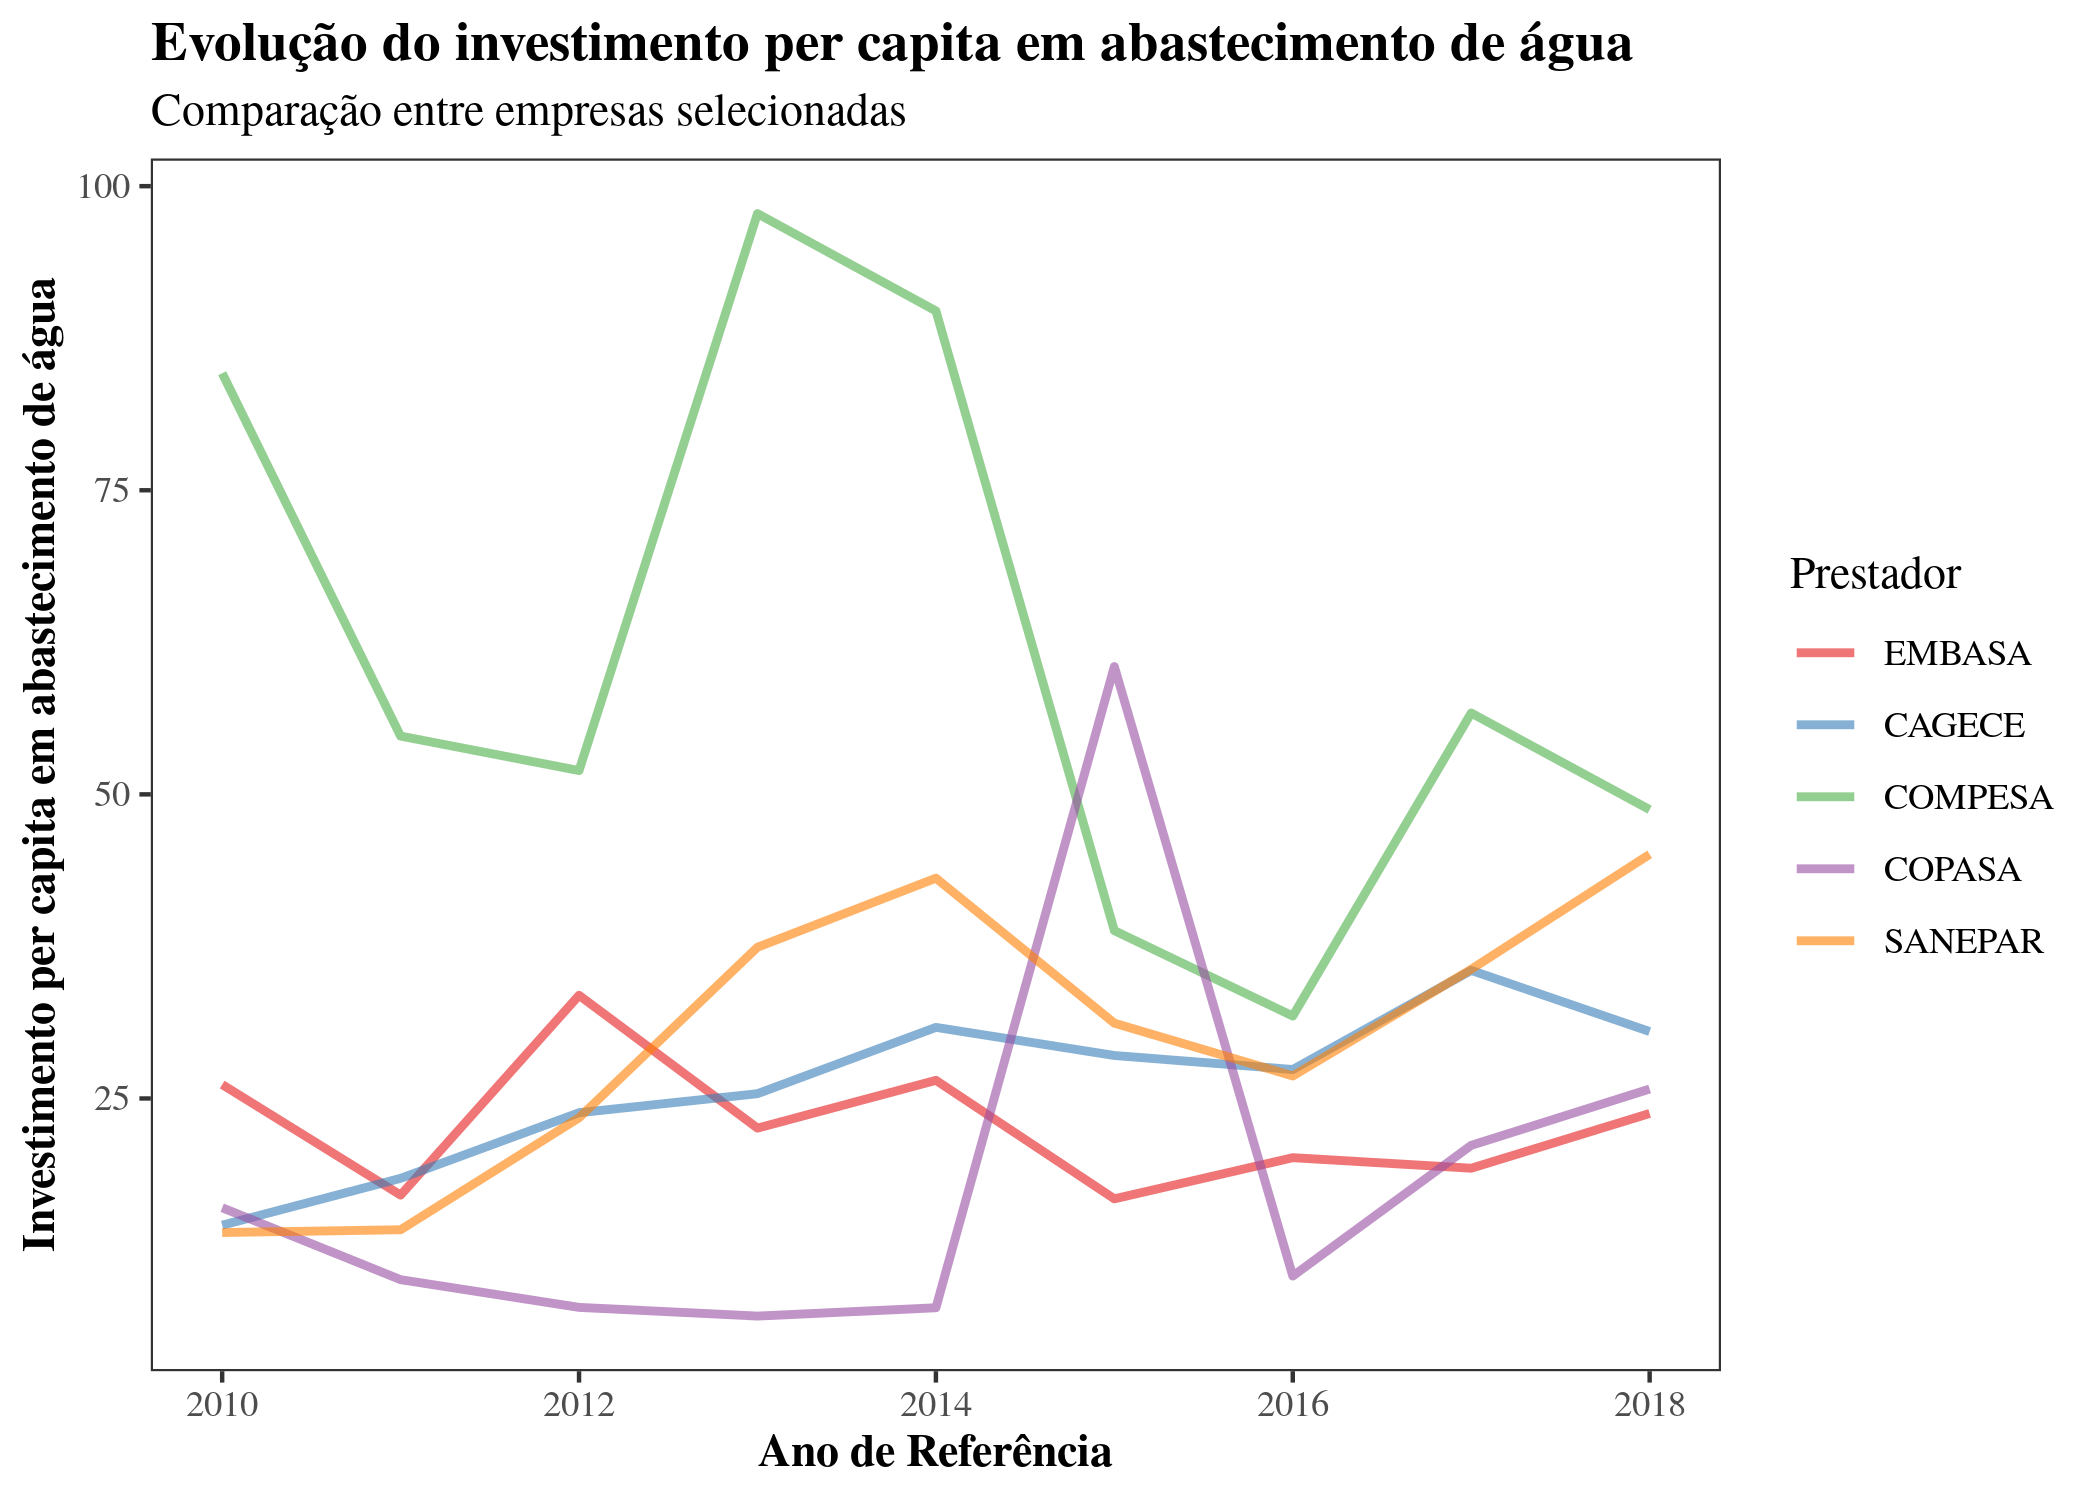
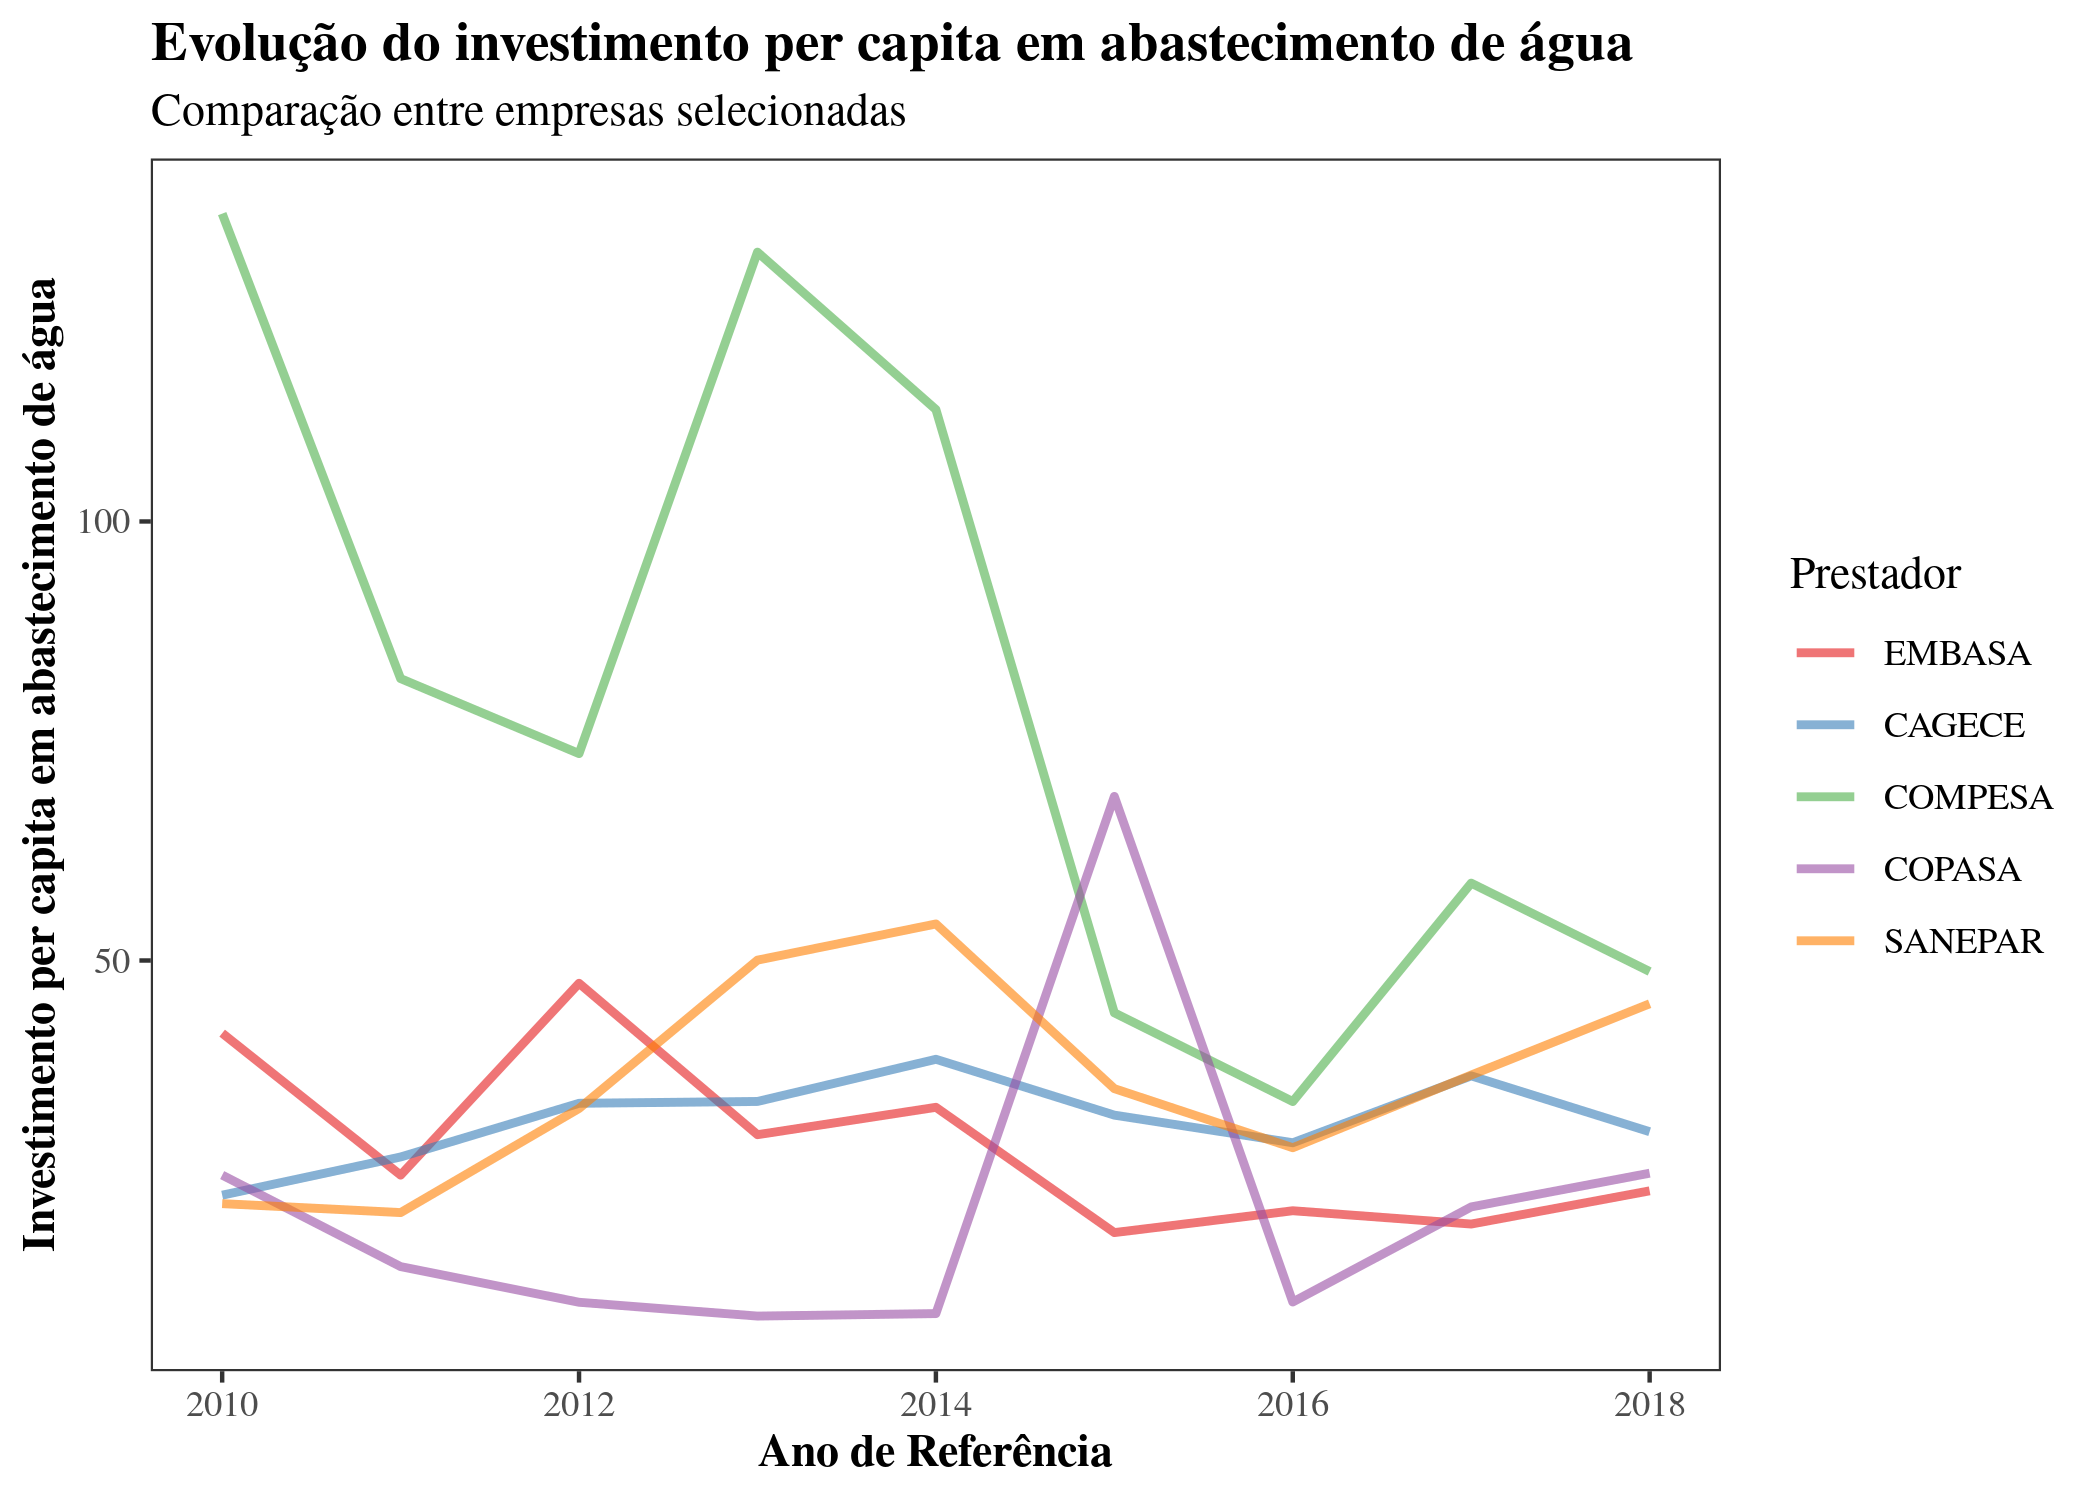
Deflating investment series

diff --git a/README.md b/README.md
@@ -1,2 +1,2 @@
 # saneamento-bahia
-Análise descritiva dos serviços de saneamento básico nos municípios bahianos, desenvolvida a partir de dados do SNIS, no contexto de atividades de pesquisa do CEPER/FEA-RP/USP, sob coordenação do Prof. Rudinei Toneto Junior.
+Análise descritiva dos serviços de saneamento básico nos municípios bahianos, desenvolvida a partir de dados do SNIS, no contexto de atividades de pesquisa do CEPER/FEA-RP/USP.
